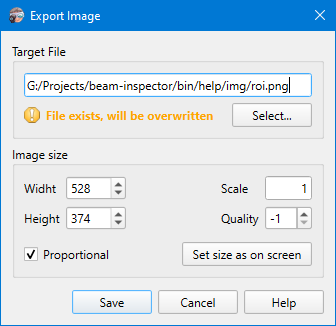
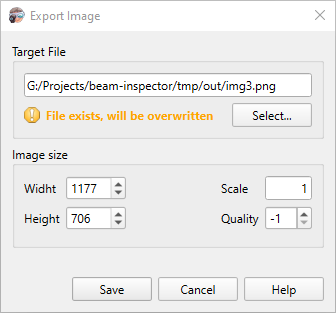
always export proportional images

diff --git a/src/plot/PlotExport.cpp b/src/plot/PlotExport.cpp
@@ -31,7 +31,7 @@ struct ExportImageProps
     int height = 0;
     int quality = -1;
     double scale = 1;
-    bool proportional = true;
+    //bool proportional = true;
 
 
     ExportImageProps()
@@ -43,7 +43,7 @@ struct ExportImageProps
         height = s.value("height").toInt();
         quality = s.value("quality", -1).toInt();
         scale = s.value("scale", 1).toDouble();
-        proportional = s.value("proportional", true).toBool();
+        //proportional = s.value("proportional", true).toBool();
     }
 
     void save()
@@ -55,7 +55,7 @@ struct ExportImageProps
         s.setValue("height", height);
         s.setValue("quality", quality);
         s.setValue("scale", scale);
-        s.setValue("proportional", proportional);
+        //s.setValue("proportional", proportional);
     }
 };
 
@@ -72,8 +72,10 @@ public:
             { tr("JPG Images (*.jpg *.jpeg)"), "jpg" }
         });
 
-        seWidth = Ori::Gui::spinBox(100, 10000, props.width > 0 ? props.width : plot->width());
-        seHeight = Ori::Gui::spinBox(100, 10000, props.height > 0 ? props.height : plot->height());
+        // seWidth = Ori::Gui::spinBox(100, 10000, props.width > 0 ? props.width : plot->width());
+        // seHeight = Ori::Gui::spinBox(100, 10000, props.height > 0 ? props.height : plot->height());
+        seWidth = Ori::Gui::spinBox(100, 10000, plot->width());
+        seHeight = Ori::Gui::spinBox(100, 10000, plot->height());
         seWidth->connect(seWidth, QOverload<int>::of(&QSpinBox::valueChanged), seWidth, [this](int w){ widthChanged(w); });
         seHeight->connect(seHeight, QOverload<int>::of(&QSpinBox::valueChanged), seHeight, [this](int h){ heightChanged(h); });
         aspect = seWidth->value() / double(seHeight->value());
@@ -82,8 +84,8 @@ public:
         sizeLayout->addRow(tr("Widht"), seWidth);
         sizeLayout->addRow(tr("Height"), seHeight);
 
-        cbProportional = new QCheckBox(tr("Proportional"));
-        cbProportional->setChecked(props.proportional);
+        // cbProportional = new QCheckBox(tr("Proportional"));
+        // cbProportional->setChecked(props.proportional);
 
         seQuality = Ori::Gui::spinBox(-1, 100, (props.quality >= -1 && props.quality <= 100) ? props.quality : -1);
 
@@ -95,8 +97,8 @@ public:
         scaleLayout->addRow(tr("Scale"), edScale);
         scaleLayout->addRow(tr("Quality"), seQuality);
 
-        auto butResetSize = new QPushButton("  " +  tr("Set size as on screen") + "  ");
-        butResetSize->connect(butResetSize, &QPushButton::clicked, butResetSize, [this]{ resetImageSize(); });
+        // auto butResetSize = new QPushButton("  " +  tr("Set size as on screen") + "  ");
+        // butResetSize->connect(butResetSize, &QPushButton::clicked, butResetSize, [this]{ resetImageSize(); });
 
         content = LayoutV({
             fileSelector,
@@ -107,11 +109,11 @@ public:
                     scaleLayout,
                 }),
                 SpaceV(),
-                LayoutH({
-                    cbProportional,
-                    Stretch(),
-                    butResetSize,
-                })
+                // LayoutH({
+                //     cbProportional,
+                //     Stretch(),
+                //     butResetSize,
+                // })
             }).makeGroupBox(tr("Image size")),
         }).setMargin(0).makeWidgetAuto();
     }
@@ -126,18 +128,18 @@ public:
     void widthChanged(int w) {
         if (skipSizeChange) return;
         skipSizeChange = true;
-        if (cbProportional->isChecked())
+        //if (cbProportional->isChecked())
             seHeight->setValue(w / aspect);
-        else aspect = w / seHeight->value();
+        //else aspect = w / seHeight->value();
         skipSizeChange = false;
     }
 
     void heightChanged(int h) {
         if (skipSizeChange) return;
         skipSizeChange = true;
-        if (cbProportional->isChecked())
+        //if (cbProportional->isChecked())
             seWidth->setValue(h * aspect);
-        else aspect = seWidth->value() / double(h);
+        //else aspect = seWidth->value() / double(h);
         skipSizeChange = false;
     }
 
@@ -149,6 +151,7 @@ public:
             .withTitle(tr("Export Image"))
             .withAcceptTitle(tr("Save"))
             .withOnHelp([]{ HelpSystem::topic("export_plot"); })
+            .windowModal()
             .exec();
     }
 
@@ -158,7 +161,7 @@ public:
         props.height = seHeight->value();
         props.quality = seQuality->value();
         props.scale = edScale->value();
-        props.proportional = cbProportional->isChecked();
+        //props.proportional = cbProportional->isChecked();
     }
 
     QCustomPlot *plot;
@@ -251,6 +254,7 @@ public:
             .withTitle(tr("Export Raw Image"))
             .withAcceptTitle(tr("Save"))
             .withOnHelp([]{ HelpSystem::topic("export_raw"); })
+            .windowModal()
             .exec();
     }
 

diff --git a/bin/help/export_plot.md b/bin/help/export_plot.md
@@ -8,9 +8,7 @@ Saves the current beam view, including beam ellipse, color scale, and calculatio
 
 ![Screenshot](./img/export_plot.png)
 
-The dialog allows for specifying the exact **Width** and **Height** of the target image, the beam view will be re-plotted into that size without bitmap scaling artifacts.
-
-If the **Proportional** flag is checked, then when you change a width or height, the other side will be adjusted accordingly to receive the same relative change.
+The dialog allows for specifying the exact **Width** and **Height** of the target image, the beam view will be re-plotted into that size without bitmap scaling artifacts. When you change a width or height, the other side will be adjusted accordingly to receive the same relative change
 
 The **Scale** defines the plotting scale factor. For example, when you set `Width=600` and `Scale=1` you get an image of 600px width like if you have resized the window to that width.
 
